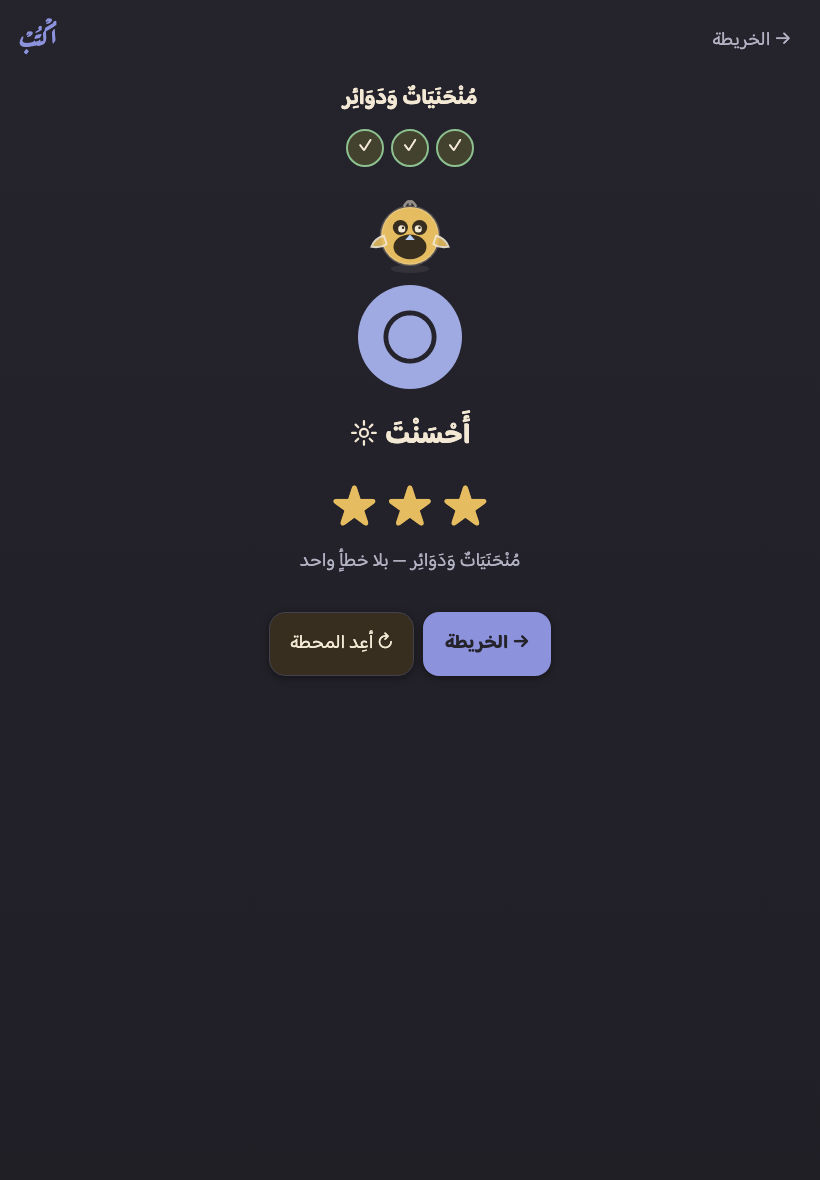
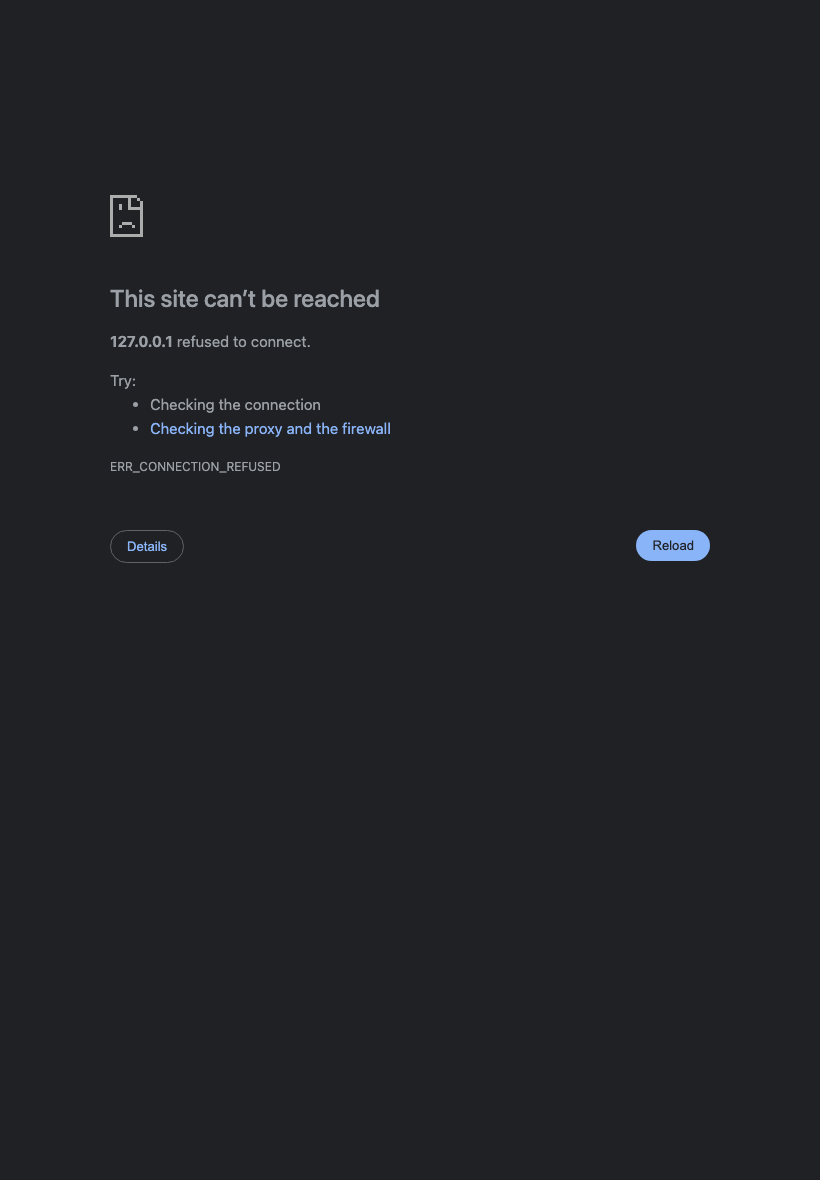
لا شكوى شكلٍ حيث حكم القارئ — القراءةُ شهادةٌ على ما كُتب (v58)
كلمةٌ قرأها القارئُ غيرَ المطلوب قد يكون شكلُها سليماً وإنما زاغ موضعُها،
فكتابةُ سببٍ من أسباب الشكل على لوحة وليّ الأمر شهادةٌ بما لم يُقَس. فصارت
تُكتب القراءةُ نفسُها وصفاً، ويبقى سببُ الشكل لمن حكم فيه الشكلُ وحدَه.

diff --git a/app/js/copy.js b/app/js/copy.js
@@ -514,9 +514,15 @@ export function renderNode(node) {
         }
       }
       if (m) {
-        if (!m.clean && m.shape?.why) progress.recordFault(unit.text, m.shape.why);
+        /* 🔴 **وحيث حكم القارئُ لا تُكتب شكوى شكلٍ** (تصحيحُ عهدٍ، ٢٥ أغسطس ٢٠٢٦):
+           كلمةٌ قرأها القارئُ غيرَ المطلوب قد يكون **شكلُها سليماً** وإنما زاغ
+           موضعُها أو التبس حرفٌ — فكتابةُ سببٍ من أسباب الشكل على لوحة وليّ الأمر
+           **شهادةٌ بما لم يُقَس**. فتُكتب القراءةُ نفسُها وصفاً (`read:…`)، ويبقى
+           سببُ الشكل لمن حكم فيه الشكلُ وحدَه (بلا إذنٍ أو بلا إنترنت). */
+        if (!m.clean && !m.read && m.shape?.why) progress.recordFault(unit.text, m.shape.why);
         if (step.kind) progress.recordQuality(unit.text, progress.WORD_FORM, step.kind,
-          m.clean ? [...new Set(m.shape.guides || [])] : ['passed-on']);
+          m.clean ? [...new Set(m.shape.guides || [])]
+            : (m.read ? [`read:${m.read.top || '—'}`] : ['passed-on']));
         score(step, unit, m.clean);
         // **وإنتاجٌ حرٌّ نظيفٌ غيرُ مكشوفٍ يُنضج الكلمة** (ب١ — كما كان في
         // مسلك الإتمام القديم): طريقُها إلى الإملاء يمرّ من هنا.

diff --git a/app/js/sentence.js b/app/js/sentence.js
@@ -332,7 +332,9 @@ export function renderNode(node) {
             }
           }
           if (m) {
-            if (!m.clean && m.shape?.why) progress.recordFault(unit.text, m.shape.why);
+            // **وحيث حكم القارئُ لا تُكتب شكوى شكلٍ** (كما في الكلمات): القراءةُ
+            // شهادةٌ على ما كُتب، وسببُ الشكل لمن حكم فيه الشكلُ وحدَه.
+            if (!m.clean && !m.read && m.shape?.why) progress.recordFault(unit.text, m.shape.why);
             if (step.kind) progress.recordQuality(unit.text, progress.SENTENCE_FORM, step.kind,
               // **وقياسُ الطريقة مرفوعٌ عن الجمل كما رُفع عن الكلمات** (حكم المالك
               // ٢٥ أغسطس ٢٠٢٦): مادّةُ النسخ تعود على أثرها، والماشي يقرأ الرجوعَ

diff --git a/app/sw.js b/app/sw.js
@@ -137,7 +137,7 @@
 //   مبدأ ط، وف المعزولة ترتفع أوّلاً. **ووحدةٌ تبدّلت تحت اسمها فبلا الرفعة يبقى
 //   جهازٌ مثبَّتٌ يرسم القديمَ** — وهو ما وقع فعلاً: رأى المالكُ ٢ و٣ من اليسار بعد
 //   النشر لأنّ قشرتَه المخزونة v32 تحمل `paths.js` القديم. **الرفعةُ شرطُ الوصول.**
-const VERSION = 'v57';
+const VERSION = 'v58';
 const SHELL_CACHE = `uktub-shell-${VERSION}`;
 const AUDIO_CACHE = 'uktub-audio';          // ثابتٌ عمداً — لا يحمل VERSION
 const KEEP = [SHELL_CACHE, AUDIO_CACHE];
